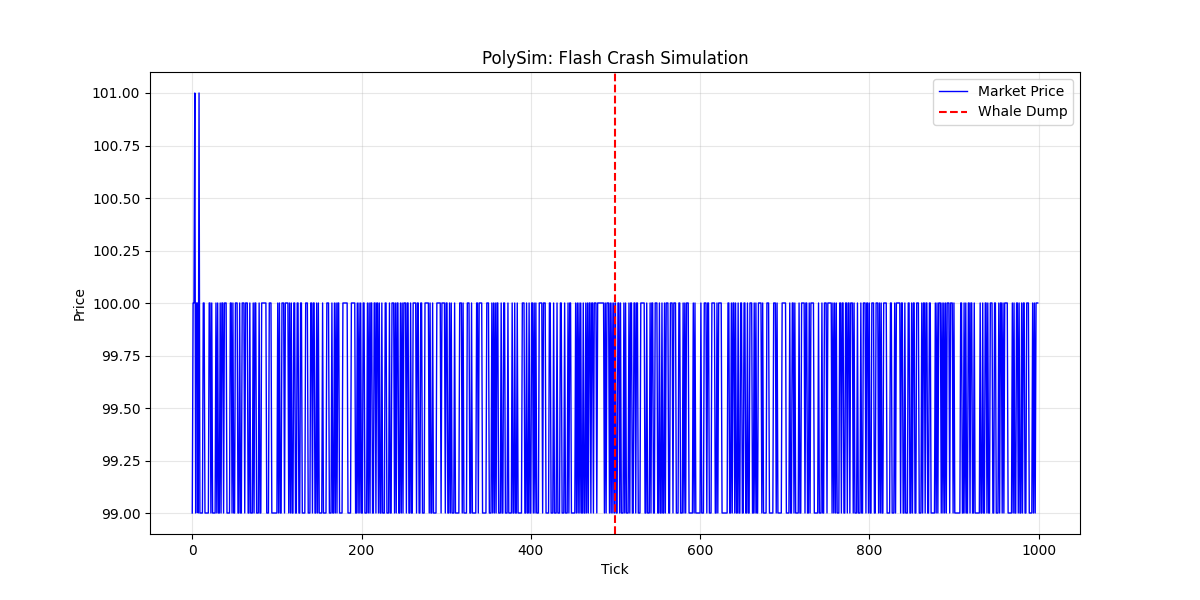
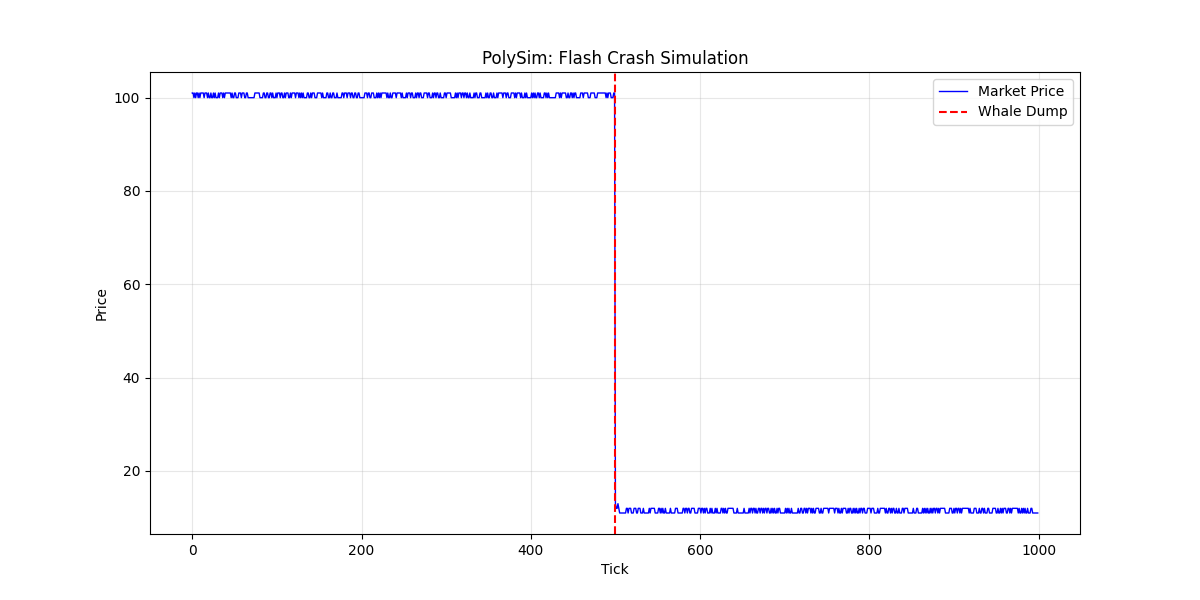
sims

diff --git a/python/market_sim.py b/python/market_sim.py
@@ -1,0 +1,182 @@
+import sys
+import os
+import random
+import argparse
+import matplotlib.pyplot as plt
+
+# Ensure the current directory is in the path
+sys.path.append(os.getcwd())
+
+# Add MinGW bin directory to DLL search path for Windows
+if os.name == 'nt':
+    try:
+        os.add_dll_directory(r"C:\msys64\ucrt64\bin")
+    except Exception:
+        pass
+
+try:
+    import polysim
+except ImportError as e:
+    print(f"Failed to import polysim: {e}")
+    sys.exit(1)
+
+# Global Price Tracker
+current_price = 100.0
+price_history = []
+
+class MarketMaker(polysim.Agent):
+    def __init__(self, agent_id, cash, inventory, crunch_tick=None):
+        super().__init__(agent_id, cash, inventory)
+        self.spread = 1.0
+        self.order_qty = 10.0
+        self.crunch_tick = crunch_tick
+        self.tick_count = 0
+
+    def on_tick(self, market_snapshot):
+        self.tick_count += 1
+        
+        # Liquidity Crunch Scenario: Stop quoting after a certain tick
+        if self.crunch_tick and self.tick_count >= self.crunch_tick:
+            return
+
+        # Center around current price
+        bid_price = current_price - self.spread
+        ask_price = current_price + self.spread
+        
+        self.place_limit_order(polysim.Side.BUY, bid_price, self.order_qty)
+        self.place_limit_order(polysim.Side.SELL, ask_price, self.order_qty)
+
+    def on_trade(self, trade):
+        global current_price
+        current_price = trade.price
+
+class NoiseTrader(polysim.Agent):
+    def __init__(self, agent_id, cash, inventory):
+        super().__init__(agent_id, cash, inventory)
+
+    def on_tick(self, market_snapshot):
+        # 10% chance to trade
+        if random.random() < 0.1:
+            if random.random() < 0.5:
+                # Aggressive BUY
+                self.place_limit_order(polysim.Side.BUY, 200.0, 1.0)
+            else:
+                # Aggressive SELL
+                self.place_limit_order(polysim.Side.SELL, 1.0, 1.0)
+
+    def on_trade(self, trade):
+        global current_price
+        current_price = trade.price
+
+class Whale(polysim.Agent):
+    def __init__(self, agent_id, cash, inventory, side, quantity):
+        super().__init__(agent_id, cash, inventory)
+        self.side = side
+        self.quantity = quantity
+        self.has_dumped = False
+
+    def on_tick(self, market_snapshot):
+        # Dump only once
+        if not self.has_dumped:
+            action = "BUYING" if self.side == polysim.Side.BUY else "SELLING"
+            print(f"WHALE {action} {self.quantity} UNITS!")
+            
+            price = 200.0 if self.side == polysim.Side.BUY else 1.0
+            self.place_limit_order(self.side, price, self.quantity) 
+            self.has_dumped = True
+
+    def on_trade(self, trade):
+        global current_price
+        current_price = trade.price
+
+def run_simulation(args):
+    print(f"Initializing Simulation: Scenario={args.scenario}")
+    engine = polysim.Engine()
+
+    # Reset Globals
+    global current_price, price_history
+    current_price = 100.0
+    price_history = []
+
+    # Keep references to agents to prevent GC
+    agents = []
+
+    # 1. Add Market Maker
+    crunch_tick = args.whale_tick if args.scenario == 'liquidity_crunch' else None
+    mm = MarketMaker(1, 1000000.0, 10000.0, crunch_tick=crunch_tick)
+    engine.add_agent(mm)
+    agents.append(mm)
+
+    # 2. Add Noise Traders
+    for i in range(args.agents):
+        nt = NoiseTrader(100 + i, 10000.0, 100.0)
+        engine.add_agent(nt)
+        agents.append(nt)
+
+    print("Running Simulation Loop...")
+    event_triggered = False
+    
+    for t in range(args.ticks):
+        # Trigger Event at specified tick
+        if t == args.whale_tick and not event_triggered:
+            if args.scenario == 'flash_crash':
+                print("--- EVENT: FLASH CRASH (Whale Sell) ---")
+                whale = Whale(999, 0.0, args.whale_qty, polysim.Side.SELL, args.whale_qty)
+                engine.add_agent(whale)
+                agents.append(whale)
+                event_triggered = True
+            elif args.scenario == 'rally':
+                print("--- EVENT: MARKET RALLY (Whale Buy) ---")
+                whale = Whale(999, args.whale_qty * 200, 0.0, polysim.Side.BUY, args.whale_qty)
+                engine.add_agent(whale)
+                agents.append(whale)
+                event_triggered = True
+            elif args.scenario == 'liquidity_crunch':
+                print("--- EVENT: LIQUIDITY CRUNCH (MM Withdraws) ---")
+                # MM logic handles this via crunch_tick
+                event_triggered = True
+
+        # Run 1 tick
+        engine.run(1)
+        
+        # Record Data
+        price_history.append((t, current_price))
+        
+        if t % 100 == 0:
+            print(f"Tick {t}: Price = {current_price:.2f}")
+
+    print("Simulation Complete. Generating Plot...")
+    
+    # Visualization
+    times = [x[0] for x in price_history]
+    prices = [x[1] for x in price_history]
+
+    plt.figure(figsize=(12, 6))
+    plt.plot(times, prices, label='Market Price', color='blue', linewidth=1)
+    
+    # Add vertical line for event
+    plt.axvline(x=args.whale_tick, color='red', linestyle='--', label='Event Trigger')
+    
+    plt.title(f'PolySim: {args.scenario.replace("_", " ").title()}')
+    plt.xlabel('Tick')
+    plt.ylabel('Price')
+    plt.legend()
+    plt.grid(True, alpha=0.3)
+    
+    filename = f"result_{args.scenario}.png"
+    output_path = os.path.join(os.getcwd(), filename)
+    plt.savefig(output_path)
+    print(f"Plot saved to {output_path}")
+
+if __name__ == "__main__":
+    parser = argparse.ArgumentParser(description="PolySim Market Simulator")
+    parser.add_argument("--scenario", type=str, default="flash_crash", 
+                        choices=["flash_crash", "rally", "liquidity_crunch"],
+                        help="Simulation scenario to run")
+    parser.add_argument("--ticks", type=int, default=1000, help="Duration of simulation in ticks")
+    parser.add_argument("--agents", type=int, default=50, help="Number of noise traders")
+    parser.add_argument("--whale-qty", type=float, default=50000.0, help="Quantity for whale order")
+    parser.add_argument("--whale-tick", type=int, default=500, help="Tick to trigger the event")
+
+    args = parser.parse_args()
+    run_simulation(args)

diff --git a/python/flash_crash_sim.py b/python/flash_crash_sim.py
@@ -77,7 +77,7 @@ class Whale(polysim.Agent):
         if not self.has_dumped:
             print(f"WHALE DUMPING AT TICK!")
             # Massive Sell Order to crash the price
-            self.place_limit_order(polysim.Side.SELL, 1.0, 500.0) 
+            self.place_limit_order(polysim.Side.SELL, 13.0, 50000.0) 
             self.has_dumped = True
 
     def on_trade(self, trade):
